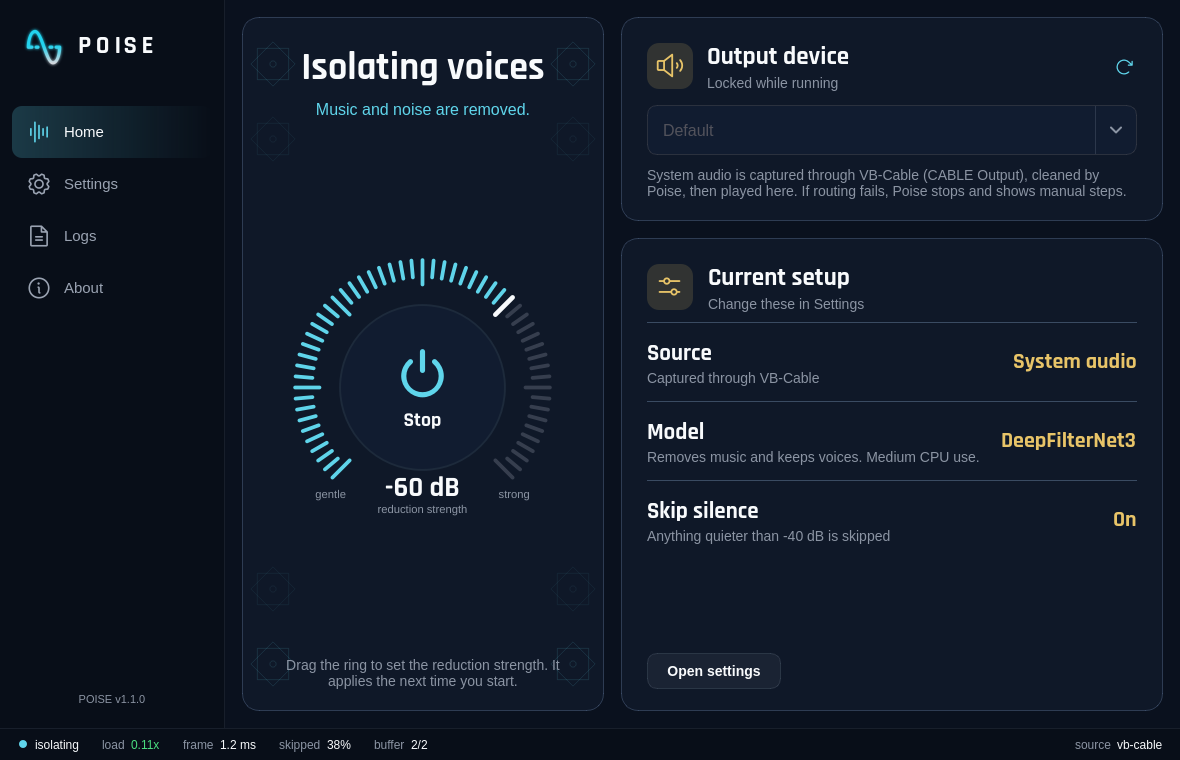
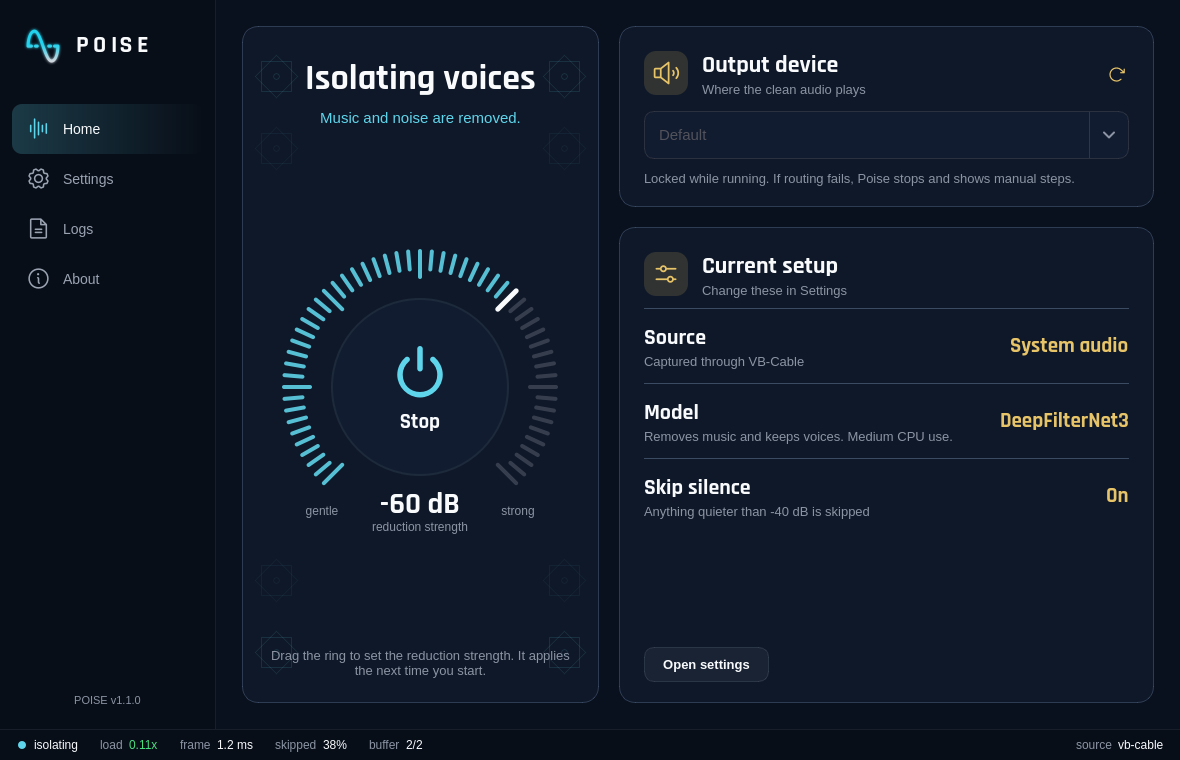
Home: align Output device header spacing, tighten copy, new screenshot
- DeviceSelector header spacings now go through sp(), so the icon/title
  gap matches the Current setup card on scaled displays (was 14px vs
  21px at 1.5x)
- Output device subtitle stays "Where the clean audio plays"; the
  routing note says it is locked while running
- Shorter RNNoise card blurb
- README: re-rendered screenshot, drop the "Screenshot" table header

diff --git a/stream_denoiser/gui/main_window.py b/stream_denoiser/gui/main_window.py
@@ -362,8 +362,7 @@ class MainWindow(QMainWindow):
         output_layout.addWidget(self.output_selector)
         # Input is always VB-Cable: say so once, plainly.
         routing_note = QLabel(
-            "System audio is captured through VB-Cable (CABLE Output), "
-            "cleaned by Poise, then played here. If routing fails, Poise "
+            "Locked while running. If routing fails, Poise "
             "stops and shows manual steps.")
         routing_note.setObjectName("row-sub")
         routing_note.setWordWrap(True)
@@ -901,8 +900,7 @@ class MainWindow(QMainWindow):
     def _set_controls_enabled(self, enabled: bool):
         self.output_selector.setEnabled(enabled)
         self.output_selector.set_subtitle(
-            "Where the clean audio plays" if enabled
-            else "Locked while running")
+            "Where the clean audio plays")
         self.model_cards.setEnabled(enabled)
 
     def _on_worker_started(self):

diff --git a/tests/test_home_flow.py b/tests/test_home_flow.py
@@ -70,11 +70,13 @@ def test_controls_lock_while_running(window):
     window._set_controls_enabled(False)
     assert not window.output_selector.isEnabled()
     assert not window.model_cards.isEnabled()
-    assert window.output_selector._subtitle.text() == "Locked while running"
+    # The lock is explained once in the routing note, not the subtitle.
+    subtitle = "Where the clean audio plays"
+    assert window.output_selector._subtitle.text() == subtitle
     window._set_controls_enabled(True)
     assert window.output_selector.isEnabled()
     assert window.model_cards.isEnabled()
-    assert window.output_selector._subtitle.text() != "Locked while running"
+    assert window.output_selector._subtitle.text() == subtitle
 
 
 def test_status_messages_drive_headline_and_status_bar(window):

diff --git a/stream_denoiser/gui/widgets/device_selector.py b/stream_denoiser/gui/widgets/device_selector.py
@@ -53,15 +53,15 @@ class DeviceSelector(QWidget):
         """Setup the widget UI (icon chip + title row, boxed combo)."""
         layout = QVBoxLayout(self)
         layout.setContentsMargins(0, 0, 0, 0)
-        layout.setSpacing(14)
+        layout.setSpacing(sp(14))
 
         header = QHBoxLayout()
-        header.setSpacing(14)
+        header.setSpacing(sp(14))
         self._chip = IconChip(
             "monitor" if self._device_type == "input" else "speaker")
         header.addWidget(self._chip)
         titles = QVBoxLayout()
-        titles.setSpacing(2)
+        titles.setSpacing(sp(2))
         self._label = QLabel(label)
         self._label.setObjectName("device-title")
         self._label.setAlignment(

diff --git a/stream_denoiser/constants.py b/stream_denoiser/constants.py
@@ -31,8 +31,7 @@ MODEL_INFO = {
     MODEL_RNNOISE: {
         "label": "RNNoise",
         "picker_blurb": "Worse isolation · lower CPU load",
-        "card_blurb": "Reduces steady noise like fans and hiss, but not "
-                      "music. Light CPU use.",
+        "card_blurb": "Light CPU use but lower quality isolation.",
         "blurb": "Frequency domain (Bark bands) · native librnnoise",
     },
 }

diff --git a/README.md b/README.md
@@ -34,9 +34,7 @@
 
 A high-performance real-time system audio denoiser and voice isolator that captures system audio, processes it through an ONNX neural network model, and outputs enhanced audio with minimal latency.
 
-|Screenshot |
-|---|
-| <img src="stream_denoiser/gui/assets/screenshot.png" alt="Poise Voice Isolator GUI" width="100%"/> |
+<img src="stream_denoiser/gui/assets/screenshot.png" alt="Poise Voice Isolator GUI" width="100%"/>
 
 ---
 
